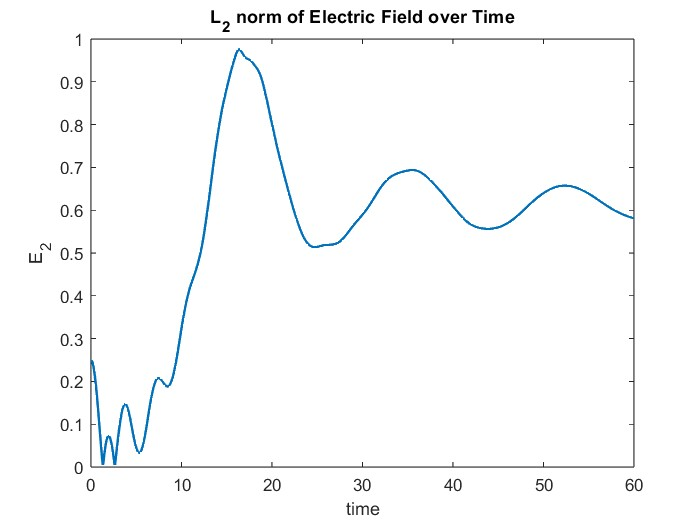
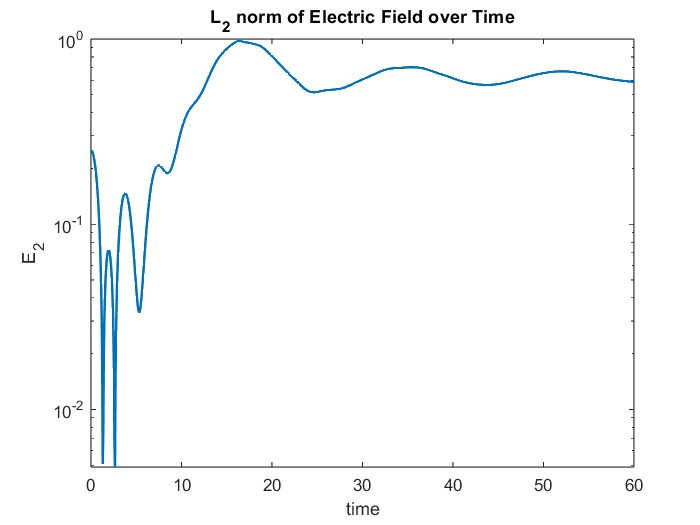
fun times

diff --git a/Vlasov-Poisson Solver/main.m b/Vlasov-Poisson Solver/main.m
@@ -31,7 +31,7 @@ end
 [f_matrix, EF, mass, L1, L2, energy, entropy, tvals] = VPSolver(discretizationType, Nx, Nv, lambda, interval, tf, f0);
 
 figure(1);
-plot(tvals, EF, 'LineWidth', 1.5);
+semilogy(tvals, EF, 'LineWidth', 1.5);
 xlabel('time'); ylabel('E_2'); title('L_2 norm of Electric Field over Time');
 
 figure(2);
@@ -57,7 +57,7 @@ xlabel('time'); ylabel('Entropy'); title('Entropy over Time');
 figure(7); clf; surf(X, V, f_matrix(:, :, end));
 colorbar;
 shading flat; % removes gridlines
-legend(sprintf('Nx = Ny = %s', num2str(Nx, 3)), 'Location','northwest');
+legend(sprintf('N_x = %s, N_v = %s', num2str(Nx, 3), num2str(Nv, 3)), 'Location','northwest');
 xlabel('X'); ylabel('Y'); zlabel('U(X, Y)'); title([sprintf('2D WENO+%s', discretizationType), sprintf(' approximation at time %s', num2str(tf, 4))]);
 view(2); % bird's eye view
 xlim([interval(1), interval(2)]);

diff --git a/Vlasov-Poisson Solver/VPSolver.m b/Vlasov-Poisson Solver/VPSolver.m
@@ -51,9 +51,10 @@ function [f_matrix, EF, mass, L1, L2, energy, entropy, tvals] = VPSolver(discret
             figure(8); clf; surf(X, V, f_matrix(:, :, n));
             colorbar;
             shading flat; % removes gridlines
-            legend(sprintf('Nx = Ny = %s', num2str(Nx, 3)), 'Location','northwest');
+            legend(sprintf('N_x = %s, N_v = %s', num2str(Nx, 3), num2str(Nv, 3)), 'Location','northwest');
             xlabel('X'); ylabel('Y'); zlabel('U(X, Y)'); title([sprintf('2D WENO+%s', discretizationType), sprintf(' approximation at time %s', num2str(tvals(n), 4))]);
             view(2); % bird's eye view
+            xlim([interval(1), interval(2)]);
         end
     end
 end
